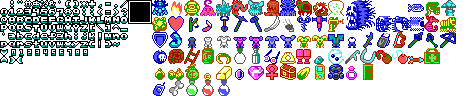
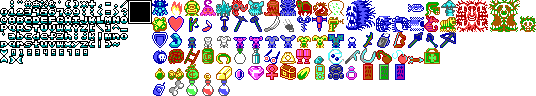
added slab colours removed some items supreme bricks are harder now

diff --git a/src/items.ts b/src/items.ts
@@ -1,5 +1,7 @@
 import { ItemOptions } from "./Item";
 
+const notImplemented = "This isn't implemented yet. Sorry.";
+
 export const pocketwatch: Partial<ItemOptions> = {
   glyph: "Pocketwatch",
   name: "pocketwatch",
@@ -12,13 +14,6 @@ export const brokenPocketwatch: Partial<ItemOptions> = {
   glyph: "BrokenPocketwatch",
   name: "broken pocketwatch",
   lore: "A shattered image of what used to be and what could have been. Vague shapes stare back at you through a cracked lens, unrecognizable.",
-};
-
-// TODO
-export const detector: Partial<ItemOptions> = {
-  glyph: "Detector",
-  name: "gas detector",
-  lore: 'A small electronic beeper that tells the density of the gas in any area for as long as its battery lasts. These devices are often dubbed "canaries" by more grizzled and seasoned diggers and miners, a reference to the since banned practice of using small birds to gauge if an area was too toxic to be explored.',
 };
 
 // TODO
@@ -244,7 +239,7 @@ export const ropeBomb: Partial<ItemOptions> = {
   glyph: "RopeBomb",
   name: "rope bomb",
   charges: 1,
-  lore: "This isn't implemented yet. Sorry.",
+  lore: notImplemented,
 };
 
 export const rope: Partial<ItemOptions> = {
@@ -280,14 +275,6 @@ export const bracelet: Partial<ItemOptions> = {
   lore: "Bracelet resembling magical artifacts from the island of Mellogrin. Rarities outside of the island itself, as few Mellogrinians have ever ventured away from the island, and fewer still bring pieces of their old life with them. Mellogrinian artifacts are often said to be imbued with the celebration of life, protecting wearers from the harm that the world would do to them.",
 };
 
-// TODO
-export const vial: Partial<ItemOptions> = {
-  glyph: "Vial",
-  name: "empty vial",
-  charges: 1,
-  lore: "This isn't implemented yet. Sorry.",
-};
-
 export const airTank: Partial<ItemOptions> = {
   glyph: "Tank",
   name: "air tank",
@@ -314,13 +301,6 @@ export const helmet: Partial<ItemOptions> = {
   lore: "Patented during the great gold rush by Wilton B. Miner and named after his legacy, they vastly improved the safety of digs by providing protection from falling rocks as well as providing additional light in dark corridors and deep expanses.",
   slot: "head",
   bonus: { vision: 2, crushResistance: 0.5 },
-};
-
-// TODO
-export const jetpack: Partial<ItemOptions> = {
-  glyph: "Jetpack",
-  name: "jetpack",
-  lore: "This isn't implemented yet. Sorry.",
 };
 
 // TODO
@@ -421,7 +401,7 @@ export const remote: Partial<ItemOptions> = {
   glyph: "Remote",
   name: "remote",
   charges: 1,
-  lore: "This isn't implemented yet. Sorry.",
+  lore: notImplemented,
 };
 
 export const staple: Partial<ItemOptions> = {
@@ -436,27 +416,27 @@ export const mambele: Partial<ItemOptions> = {
   glyph: "Mambele",
   name: "mambele",
   charges: 1,
-  lore: "This isn't implemented yet. Sorry.",
+  lore: notImplemented,
 };
 
 // TODO
-export const slab1: Partial<ItemOptions> = {
-  glyph: "Slab", // TODO: red
+export const slabHP: Partial<ItemOptions> = {
+  glyph: "RedSlab",
   name: "ancient slab of vigour",
   article: "an",
   holdBonus: { maxHp: 10 },
   lore: '"The slab beckons as I feel words pulse in my mind as fleeting as sparks at night. I know not what it is, only that it calls to me with promises of renewed energy and hidden knowledge." - Jacques Splintertooth',
 };
-export const slab2: Partial<ItemOptions> = {
-  glyph: "Slab", // TODO: green
+export const slabSP: Partial<ItemOptions> = {
+  glyph: "GreenSlab",
   name: "ancient slab of power",
   article: "an",
   holdBonus: { sp: 5 },
   lore: '"The slab beckons as I feel a tingling course through my veins as swift as a powerful breeze. I know not what it is, only that it calls to me with promises of renewed strength and hidden knowledge." - Jacques Splintertooth',
 };
-export const slab3: Partial<ItemOptions> = {
-  glyph: "Slab", // TODO: blue
-  name: "ancient slab of power?", // TODO: real name
+export const slabDP: Partial<ItemOptions> = {
+  glyph: "BlueSlab",
+  name: "ancient slab of grit", // TODO: real name
   article: "an",
   holdBonus: { dp: 5 },
   lore: '"The slab beckons as I feel a frigid chill like the touch of a frozen hand. I know not what it is, only that it calls to me with promises of renewed fortitude and hidden knowledge." - Jacques Splintertooth',
@@ -466,7 +446,7 @@ export const slab3: Partial<ItemOptions> = {
 export const ring: Partial<ItemOptions> = {
   glyph: "Ring",
   name: "vanish ring",
-  lore: "This isn't implemented yet. Sorry.",
+  lore: notImplemented,
 };
 
 // TODO
@@ -474,7 +454,7 @@ export const arrow: Partial<ItemOptions> = {
   glyph: "Arrow",
   name: "arrow",
   charges: 1,
-  lore: "This isn't implemented yet. Sorry.",
+  lore: notImplemented,
 };
 
 // TODO
@@ -482,7 +462,7 @@ export const bluePotion: Partial<ItemOptions> = {
   glyph: "BluePotion",
   name: "blue liquid",
   charges: 1,
-  lore: "This isn't implemented yet. Sorry.",
+  lore: notImplemented,
 };
 
 // TODO
@@ -490,7 +470,7 @@ export const redPotion: Partial<ItemOptions> = {
   glyph: "RedPotion",
   name: "red liquid",
   charges: 1,
-  lore: "This isn't implemented yet. Sorry.",
+  lore: notImplemented,
 };
 
 // TODO
@@ -498,7 +478,7 @@ export const greenPotion: Partial<ItemOptions> = {
   glyph: "GreenPotion",
   name: "green liquid",
   charges: 1,
-  lore: "This isn't implemented yet. Sorry.",
+  lore: notImplemented,
 };
 
 export const medikit: Partial<ItemOptions> = {

diff --git a/src/tables.ts b/src/tables.ts
@@ -18,7 +18,7 @@ import {
   squimpy,
   telden,
 } from "./actors";
-import Item, { ItemOptions } from "./Item";
+import { ItemOptions } from "./Item";
 import {
   airTank,
   arrow,
@@ -33,14 +33,12 @@ import {
   claws,
   clothes,
   crossbow,
-  detector,
   femur,
   gildedPlate,
   greenPotion,
   hammer,
   helmet,
   jackhammer,
-  jetpack,
   ladder,
   laserCutter,
   machete,
@@ -59,9 +57,9 @@ import {
   rope,
   ropeBomb,
   shovel,
-  slab1,
-  slab2,
-  slab3,
+  slabDP,
+  slabHP,
+  slabSP,
   slingshot,
   spear,
   specs,
@@ -264,10 +262,8 @@ const usableTypes = {
   bolas,
   bomb,
   cherryBomb,
-  detector,
   greenPotion,
   helmet,
-  jetpack,
   ladder,
   mambele,
   mask,
@@ -285,7 +281,6 @@ type UsableName = keyof typeof usableTypes;
 
 const usableWeights: Distribution<UsableName> = {
   bomb: rare,
-  // TODO vial: common,
   ladder: uncommon,
   rations: uncommon,
   airTank: rare,
@@ -294,8 +289,6 @@ const usableWeights: Distribution<UsableName> = {
   helmet: uncommon,
   // TODO bolas: rare,
   // TODO rock: common,
-  // TODO jetpack: ultraRare,
-  // TODO detector: rare,
   // TODO mask: rare,
   // TODO remote: ultraRare,
   staple: common,
@@ -313,7 +306,7 @@ export function getRandomUsable(zone: number): Partial<ItemOptions> {
   return usableTypes[RNG.getWeightedValue(usableWeights) as UsableName];
 }
 
-const slabs = [slab1, slab2, slab3];
+const slabs = [slabHP, slabSP, slabDP];
 export function getSlab(zone: number): Partial<ItemOptions> {
   return slabs[zone];
 }

diff --git a/src/actors.ts b/src/actors.ts
@@ -290,7 +290,7 @@ export const poregon: Partial<ActorOptions> = {
 };
 
 export const theGreenInk: Partial<ActorOptions> = {
-  glyph: "Ink1", // TODO: green
+  glyph: "GreenInk1",
   name: "ink",
   article: "the",
   colour: "green",
@@ -307,7 +307,7 @@ export const theGreenInk: Partial<ActorOptions> = {
   lore: "\"Whatever this hideous creature is, it's far from cognizant of what's occurring around it. Exploding younglings spurn forth endlessly from this flying yolk of terror, as if ink dripping on tarnished paper. I must report this finding, I must know why it is here, and I know I must be closer than ever to the Wisher's Fragment.\" - Jacques Splintertooth",
 };
 export const popper: Partial<ActorOptions> = {
-  glyph: "Popper", // TODO
+  glyph: "InkPopper",
   name: "popper",
   colour: "green",
   ai: "fly", // TODO: explodes 5 turns after spawning
@@ -323,7 +323,7 @@ export const popper: Partial<ActorOptions> = {
 };
 
 export const theRedInk: Partial<ActorOptions> = {
-  glyph: "Ink1", // TODO: red
+  glyph: "RedInk1",
   name: "ink",
   article: "the",
   colour: "red",

diff --git a/src/tiles.ts b/src/tiles.ts
@@ -69,7 +69,7 @@ export const vaultBrick: Partial<TileOptions> = {
   glyph: "SideBrick",
   name: "brick wall",
   solid: true,
-  durability: 10,
+  durability: 20,
 };
 
 export const unset: Partial<TileOptions> = {
